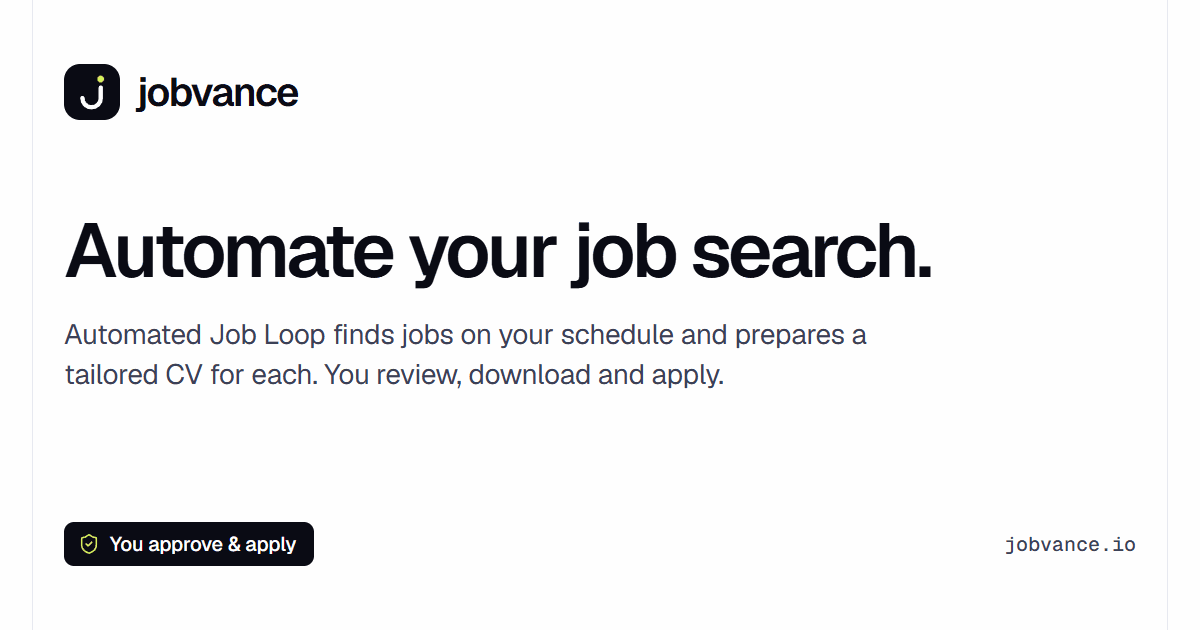
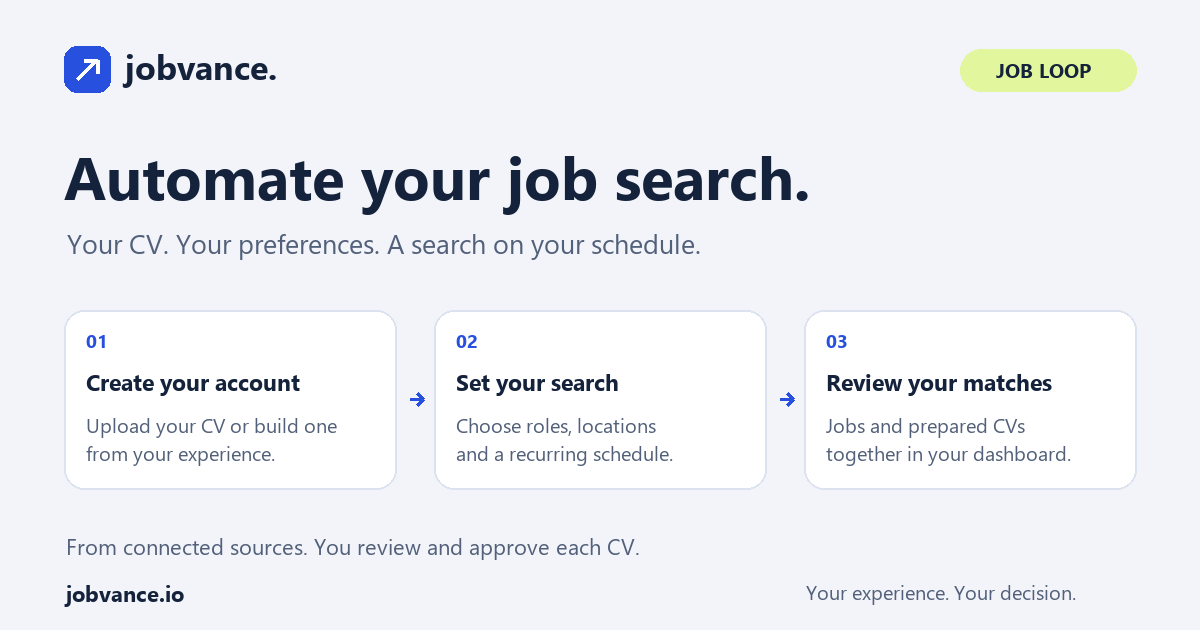
Restore approved identity and lead homepage with job-search outcomes

diff --git a/src/pages/HomePage.tsx b/src/pages/HomePage.tsx
@@ -13,7 +13,7 @@ const delay = (ms: number) => ({ "--d": `${ms}ms` }) as CSSProperties;
 const fromPrice = subscriptionPlans[0].priceUsd;
 
 // Facts the site already states (FAQ, pricing, Automated Job Loop page). No counts, ratings or outcomes.
-const proof = ["You review before you apply", "Free CV Check", "Weekly, 3×/week or daily", "PDF, DOCX or TXT downloads", "Pause your schedule anytime"];
+const proof = ["Jobs and prepared CVs, together", "Up to 3 CV variants", "Weekly, 3×/week or daily", "PDF, DOCX or TXT downloads", "Free CV Check"];
 
 // Every line restates something the site already says; only the short lead-in labels are new.
 const goodToKnow: [string, React.ReactNode][] = [
@@ -43,8 +43,8 @@ export default function HomePage() {
     <section className="jv-hero" aria-labelledby="home-title">
       <div className="jv-shell jv-hero-grid">
         <div className="jv-hero-copy">
-          <h1 id="home-title" className="jv-hero-title jv-enter-h1">Automate your job search.</h1>
-          <p className="jv-hero-lead jv-enter" style={delay(60)}>Automated Job Loop finds jobs on your schedule and prepares a tailored CV for each. You review, download and apply.</p>
+          <h1 id="home-title" className="jv-hero-title jv-enter-h1">Jobvance automates your job search end to end.</h1>
+          <p className="jv-hero-lead jv-enter" style={delay(60)}>Add or build your CV, choose roles and locations, and set your schedule. Jobvance searches connected sources and prepares role-specific CVs in your dashboard. You review, download and apply.</p>
           <div className="jv-hero-actions jv-enter" style={delay(140)}>
             <StartLink size="lg" className="jv-hero-cta" />
             <TextLink to="/check">Try the free CV Check</TextLink>
@@ -89,38 +89,39 @@ export default function HomePage() {
       </div>
     </section>
 
-    {/* 4. You stay in control: each row stages one distinct product fragment on a panel. */}
+    {/* 4. Useful outcomes: each row stages one illustrative product fragment. */}
     <section className="jv-control" aria-labelledby="home-control-title">
       <div className="jv-shell">
         <div className="jv-section-head" data-reveal>
-          <h2 id="home-control-title">You stay in control.</h2>
-          <p>Jobvance prepares. You decide what is used, and you send every application yourself.</p>
+          <h2 id="home-control-title">Stop starting your job search from scratch.</h2>
+          <p>Save your experience once. Return to opportunities, prepared CVs and a clear next step.</p>
         </div>
         <div className="jv-control-rows">
           <article className="jv-control-row" data-reveal>
-            <div className="jv-control-copy"><h3>Jobvance never applies for you</h3><p>Each prepared CV waits for your approval. You download it and apply on the employer’s site.</p></div>
+            <div className="jv-control-copy"><h3>Review jobs and prepared CVs together.</h3><p>Your dashboard keeps each opportunity with its prepared documents. Review the CV, download it and open the employer’s vacancy from one place.</p></div>
             <div className="jv-frag" aria-hidden="true">
               <div className="jv-frag-card">
+                <span className="jv-frag-label">Example application</span>
                 <div className="jv-frag-head"><span className="jv-frag-strong">Product Analyst</span><span className="jv-frag-muted">Northwind Labs</span></div>
                 <div className="jv-frag-foot">
                   <span className="jv-frag-filename"><FileText aria-hidden="true" />CV_Product_Analyst.pdf</span>
-                  <span className="jv-frag-state"><span className="jv-switch is-on"><span /></span>Approved</span>
+                  <span className="jv-frag-state">Ready for review</span>
                 </div>
               </div>
             </div>
           </article>
           <article className="jv-control-row" data-reveal>
-            <div className="jv-control-copy"><h3>Only what you have listed</h3><p>It never adds employers, numbers, tools or qualifications you haven’t listed. It rewords and reorders your own lines.</p></div>
+            <div className="jv-control-copy"><h3>One CV setup. More than one direction.</h3><p>Keep up to three CV variants for different kinds of roles. Choose the one to use for your next run, without re-entering the same experience.</p></div>
             <div className="jv-frag" aria-hidden="true">
               <div className="jv-frag-card jv-frag-cv">
-                <span className="jv-frag-label">Example CV line</span>
-                <p>Ran the quarterly customer survey and shared the results with the team.</p>
-                <span className="jv-frag-skip"><s>Tableau</s><span>Not on your CV · not added</span></span>
+                <span className="jv-frag-label">Example CV variants</span>
+                <p>Product analyst</p>
+                <span className="jv-frag-skip"><FileText aria-hidden="true" /><span>Data analyst · Business analyst</span></span>
               </div>
             </div>
           </article>
           <article className="jv-control-row" data-reveal>
-            <div className="jv-control-copy"><h3>Pause or cancel your schedule anytime</h3><p>Pause or cancel your schedule whenever you need to. Your account shows the next scheduled run.</p></div>
+            <div className="jv-control-copy"><h3>A search schedule that fits your week.</h3><p>Choose weekly, three chosen weekdays or daily. See your next run and pause your search when your plans change.</p></div>
             <div className="jv-frag" aria-hidden="true">
               <div className="jv-frag-card">
                 <div className="jv-frag-head"><span className="jv-frag-strong">Schedule</span><span className="jv-frag-muted">3×/week</span></div>

diff --git a/src/styles/marketing.css b/src/styles/marketing.css
@@ -93,17 +93,16 @@
 .jv-dark .jv-btn--primary:active { background: #C6E64A; }
 .jv-dark .jv-btn:focus-visible { outline-color: var(--jv-signal); }
 
-/* ---------- Brand mark ("signal j") ---------- */
-.jv-brand { display: inline-flex; align-items: center; gap: 10px; min-height: 44px; flex-shrink: 0; color: var(--jv-ink); font-weight: var(--fw-strong); font-size: 22px; letter-spacing: -.04em; line-height: 1; text-decoration: none; border-radius: 10px; }
-.jv-brand-mark { display: grid; place-items: center; width: 32px; height: 32px; border-radius: 9px; background: #0A0B14; color: #fff; box-shadow: inset 0 0 0 1px rgb(255 255 255 / .08); }
+/* The approved document-J and Manrope wordmark stay independent of the page palette. */
+@font-face { font-family: "Jobvance Brand"; src: url("/fonts/Manrope-Bold.woff2") format("woff2"); font-weight: 700; font-style: normal; font-display: swap; }
+.jv-brand { display: inline-flex; align-items: center; gap: 10px; min-height: 44px; flex-shrink: 0; color: #172b24; font-family: "Jobvance Brand", sans-serif; font-weight: 700; font-size: 22px; letter-spacing: -.04em; line-height: 1; text-decoration: none; border-radius: 10px; }
+.jv-brand-name { white-space: nowrap; }
+.jv-brand-period { color: #215c43; }
+.jv-brand-mark { display: grid; place-items: center; width: 32px; height: 32px; border-radius: 9px; background: #215c43; color: #fff; box-shadow: inset 0 0 0 1px rgb(255 255 255 / .08); }
 .jv-brand-mark svg { width: 24px; height: 24px; }
-.jv-brand-signal { fill: #D4F25A; }
-.jv-wordmark { display: block; flex: none; width: auto; height: 22px; overflow: visible; }
 /* Windows High Contrast drops the tile fill; keep the tile's edge so the mark stays recognisable. */
 @media (forced-colors: active) { .jv-brand-mark { border: 1px solid CanvasText; } }
-.jv-dark .jv-brand-mark { background: #fff; color: #0A0B14; }
-.jv-dark .jv-brand-signal { fill: #3B47F0; }
-@media (max-width: 760px) { .jv-brand { font-size: 20px; } .jv-wordmark { height: 20px; } }
+@media (max-width: 760px) { .jv-brand { font-size: 20px; } }
 
 /* ---------- Header ---------- */
 .jv-skip { position: absolute; left: 16px; top: -80px; z-index: 60; padding: 12px 18px; border-radius: 10px; background: var(--jv-ink); color: #fff; font-weight: 500; pointer-events: auto; }
@@ -150,8 +149,8 @@
 .jv-menu-scrim[data-state="closing"] { pointer-events: none; animation: jv-scrim-out 160ms var(--ease-inout) both; }
 @keyframes jv-menu-out { from { clip-path: inset(0 0 0 0); } to { clip-path: inset(0 0 100% 0); } }
 @keyframes jv-scrim-out { to { opacity: 0; } }
-/* Very narrow screens with large text spacing: the wordmark gives way before the menu controls do. */
-@media (max-width: 359px) { .jv-header-inner > .jv-brand { flex-shrink: 1; min-width: 0; overflow: hidden; } .jv-header-inner > .jv-brand .jv-wordmark { flex: 0 1 auto; min-width: 0; } .jv-header-inner > .jv-brand .jv-brand-mark { flex: none; } }
+/* The full wordmark and navigation fit narrow phones; the main page keeps its primary start action. */
+@media (max-width: 359px) { .jv-header-inner > .jv-header-start { display: none; } .jv-header-inner > .jv-header-start ~ .jv-menu-toggle { margin-left: auto; } }
 
 @media (min-width: 960px) {
   /* Floating glass bar: the page passes visibly above and under it while scrolling. */
@@ -192,10 +191,6 @@
 .jv-footer-bottom nav a { display: inline-flex; align-items: center; min-height: 44px; color: var(--jv-ink-2); text-decoration: none; }
 @media (hover: hover) { .jv-footer-bottom nav a:hover { color: var(--jv-ink); text-decoration: underline; text-underline-offset: 3px; } }
 .jv-footer-compact .jv-footer-top { display: none; }
-/* Closing mark: the logotype, oversized and cropped by the page bottom (decorative). */
-.jv-footer-mark { width: var(--shell); aspect-ratio: 97 / 17; margin: 8px auto 0; overflow: hidden; color: #E9EBF2; user-select: none; pointer-events: none; }
-/* Shifted left by the j hook's overhang, so the stem sits on the content edge. */
-.jv-footer-mark-svg { display: block; width: 103.3%; height: auto; max-height: none; margin-left: -3.3%; }
 .jv-footer-compact .jv-footer-inner { padding-top: 20px; }
 .jv-footer-compact .jv-footer-bottom { margin-top: 0; border-top: 0; padding-top: 0; }
 /* Phones: two columns in source order (Product and Resources, then Company under Product). The footer ends on the bottom bar. */
@@ -207,7 +202,6 @@
 @media (min-width: 1024px) {
   /* Same left edge as the page content (shell edge plus the band inset). */
   .jv-footer-inner { padding: 72px var(--band-pad-x) 40px; }
-  .jv-footer-mark { width: calc(var(--shell) - 2 * var(--band-pad-x)); }
   .jv-footer-top { grid-template-columns: repeat(12, minmax(0, 1fr)); gap: 24px; }
   .jv-footer-brand { grid-column: span 4; }
   .jv-footer-links { grid-column: 7 / span 6; gap: 24px; }

diff --git a/index.html b/index.html
@@ -1,3 +1,3 @@
 <!doctype html>
 <html lang="en"><head><meta charset="UTF-8"/><meta name="google-site-verification" content="EP_EoWAzpTyrF431kaQnHGo4n0iUDCDCVJ12hXhpsMg"/><meta name="viewport" content="width=device-width, initial-scale=1.0"/><link rel="preload" href="/fonts/Geist-latin-wght.woff2" as="font" type="font/woff2" crossorigin/><meta name="theme-color" content="#FFFFFF"/><meta name="referrer" content="strict-origin-when-cross-origin"/><title data-rh="true">Jobvance — automate your job search</title><meta data-rh="true" name="description" content="Create your account, upload or build your CV and choose your job preferences. Set a recurring search from connected sources, then review jobs and prepared CVs in your dashboard."/><meta data-rh="true" property="og:title" content="Jobvance — automate your job search"/><meta data-rh="true" property="og:description" content="Create your account, upload or build your CV and choose your job preferences. Set a recurring search from connected sources, then review jobs and prepared CVs in your dashboard."/><meta data-rh="true" name="twitter:title" content="Jobvance — automate your job search"/><meta data-rh="true" name="twitter:description" content="Create your account, upload or build your CV and choose your job preferences. Set a recurring search from connected sources, then review jobs and prepared CVs in your dashboard."/><link rel="icon" type="image/svg+xml" href="/favicon.svg" />
-    <link rel="alternate icon" href="/favicon.ico"/><link rel="apple-touch-icon" href="/apple-touch-icon.png"/><link rel="manifest" href="/manifest.json"/><meta data-rh="true" property="og:image" content="https://jobvance.io/og-job-loop-account.png?v=2"/><meta property="og:image:width" content="1200"/><meta property="og:image:height" content="630"/><meta data-rh="true" property="og:image:alt" content="Jobvance: Automate your job search. Automated Job Loop finds jobs on your schedule and prepares a tailored CV for each. You review, download and apply."/><meta data-rh="true" name="twitter:card" content="summary_large_image"/><meta data-rh="true" name="twitter:image" content="https://jobvance.io/og-job-loop-account.png?v=2"/><meta data-rh="true" name="twitter:image:alt" content="Jobvance: Automate your job search. Automated Job Loop finds jobs on your schedule and prepares a tailored CV for each. You review, download and apply."/></head><body><div id="root"></div><noscript>Jobvance needs JavaScript for secure accounts and document preparation. Enable JavaScript to continue.</noscript><script type="module" src="/src/main.tsx"></script></body></html>
+    <meta data-rh="true" property="og:image" content="https://jobvance.io/og-job-loop-account.png"/><meta property="og:image:width" content="1200"/><meta property="og:image:height" content="630"/><meta data-rh="true" property="og:image:alt" content="Automated Job Loop: create your account, add your CV, set your search schedule and review jobs and prepared CVs."/><meta data-rh="true" name="twitter:card" content="summary_large_image"/><meta data-rh="true" name="twitter:image" content="https://jobvance.io/og-job-loop-account.png"/><meta data-rh="true" name="twitter:image:alt" content="Automated Job Loop: create your account, add your CV, set your search schedule and review jobs and prepared CVs."/></head><body><div id="root"></div><noscript>Jobvance needs JavaScript for secure accounts and document preparation. Enable JavaScript to continue.</noscript><script type="module" src="/src/main.tsx"></script></body></html>

diff --git a/src/__tests__/social-metadata-navigation.test.tsx b/src/__tests__/social-metadata-navigation.test.tsx
@@ -14,7 +14,7 @@ import { clearTrackingDraftMemory } from '../lib/tracking-draft-memory';
 vi.unmock('react-router-dom');
 vi.unmock('react-helmet-async');
 vi.mock('@/lib/job-loop-api', () => ({ callJobLoop: vi.fn(async () => ({ existingState: 'absent' })), boundLoopAction: (value: unknown) => value }));
-const image='https://jobvance.io/og-job-loop-account.png?v=2';
+const image='https://jobvance.io/og-job-loop-account.png';
 const fallbackTitle='Jobvance — automate your job search';
 const originalHead=document.head.innerHTML;
 function content(key:string) {
@@ -42,7 +42,7 @@ describe('real Helmet ownership during client mount and navigation',()=>{
     expect(content('twitter:title')).toBe(staticPageMeta('/')!.title);
     expect(content('twitter:description')).toBe(staticPageMeta('/')!.description);
     for(const key of ['og:image','twitter:image'])expect(content(key)).toBe(image);
-    for(const key of ['og:image:alt','twitter:image:alt'])expect(content(key)).toContain('Automate your job search');
+    for(const key of ['og:image:alt','twitter:image:alt'])expect(content(key)).toContain('create your account');
     fireEvent.click(screen.getByRole('link',{name:'Test help'}));
     await waitFor(()=>expect(content('og:title')).toBe(staticPageMeta('/help')!.title));
     expect(content('twitter:title')).toBe(staticPageMeta('/help')!.title);
@@ -55,7 +55,7 @@ describe('real Helmet ownership during client mount and navigation',()=>{
     expect(content('twitter:title')).toBe(fallbackTitle);
     for(const key of ['description','og:description','twitter:description'])expect(content(key)).toMatch(/^Create your account,/);
     for(const key of ['og:image','twitter:image'])expect(content(key)).toBe(image);
-    for(const key of ['og:image:alt','twitter:image:alt'])expect(content(key)).toContain('Automate your job search');
+    for(const key of ['og:image:alt','twitter:image:alt'])expect(content(key)).toContain('create your account');
     expect(document.head.querySelectorAll('meta[property="og:image:width"]')).toHaveLength(1);
     expect(document.head.querySelector('meta[property="og:image:width"]')).toHaveAttribute('content','1200');
     expect(document.head.querySelector('meta[property="og:image:height"]')).toHaveAttribute('content','630');
@@ -70,7 +70,7 @@ describe('real Helmet ownership during client mount and navigation',()=>{
     fireEvent.click(screen.getByRole('link',{name:'Test home'}));
     await waitFor(()=>expect(content('og:title')).toBe(staticPageMeta('/')!.title));
     for(const key of ['og:image','twitter:image'])expect(content(key)).toBe(image);
-    for(const key of ['og:image:alt','twitter:image:alt'])expect(content(key)).toContain('Automate your job search');
+    for(const key of ['og:image:alt','twitter:image:alt'])expect(content(key)).toContain('create your account');
     expect(document.head.querySelectorAll('title')).toHaveLength(1);
     expect(document.head.querySelectorAll('link[rel="canonical"]')).toHaveLength(1);
   });

diff --git a/src/components/layout/MvpHeader.tsx b/src/components/layout/MvpHeader.tsx
@@ -5,18 +5,10 @@ import { Menu, X } from "lucide-react";
 import { useAuth } from "@/contexts/AuthContext";
 import { clearLoopWorkingDraft } from '@/lib/loop-draft-memory';
 
-// Drawn monoline logotype: the same round-capped stroke as the "j" in the mark (2.5px at 22px tall), hand-spaced.
-// The tittle stays ink; lime belongs only to the mark's signal dot.
-const WORDMARK_PATH = "M4.45 7.35V19.4a3 3 0 0 1-3 3M4.45 1.7h0M8.65 12a4.8 4.8 0 1 0 9.6 0a4.8 4.8 0 1 0-9.6 0M22.15 1.35v15.3M22.15 12a4.8 4.8 0 1 0 9.6 0a4.8 4.8 0 1 0-9.6 0M35.08 7.35l4.5 9.3 4.5-9.3M47.41 12a4.8 4.8 0 1 0 9.6 0a4.8 4.8 0 1 0-9.6 0M57.01 7.35v9.3M60.91 16.65v-9.3M60.91 11.8a4.3 4.3 0 0 1 8.6 0v4.85M81.72 8.43a4.8 4.8 0 1 0 0 7.14M85.92 12h9.6a4.8 4.8 0 1 0-1.23 3.21";
-export function Wordmark({ className = "jv-wordmark" }: { className?: string }) {
-  return <svg className={className} viewBox="0 0 97 24" fill="none" stroke="currentColor" strokeWidth="2.7" strokeLinecap="round" strokeLinejoin="round" aria-hidden="true" focusable="false"><path d={WORDMARK_PATH} /></svg>;
-}
 export function Brand() {
   return <Link to="/" className="jv-brand" aria-label="Jobvance home">
-    <span className="jv-brand-mark" aria-hidden="true">
-      <svg viewBox="0 0 24 24" fill="none"><path d="M17 9.5v6a5.25 5.25 0 0 1-10.5 0" stroke="currentColor" strokeWidth="2.5" strokeLinecap="round" /><circle cx="17" cy="4.6" r="1.9" className="jv-brand-signal" /></svg>
-    </span>
-    <Wordmark />
+    <span className="jv-brand-mark" aria-hidden="true"><svg viewBox="0 0 24 24" fill="none"><path d="M7 4h7l4 4v9a4 4 0 0 1-4 4H9a4 4 0 0 1-4-4v-3" stroke="currentColor" strokeWidth="2" strokeLinecap="round" strokeLinejoin="round" /><path d="M13 4v5h5M13 12v4a2 2 0 0 1-4 0" stroke="currentColor" strokeWidth="2" strokeLinecap="round" strokeLinejoin="round" /></svg></span>
+    <span className="jv-brand-name">jobvance<span className="jv-brand-period">.</span></span>
   </Link>;
 }
 const links = [["/job-loop","Automated Job Loop"],["/check","Free CV Check"],["/pricing","Pricing"],["/guides","Guides"],["/help","Help"]];

diff --git a/src/components/SEOHead.tsx b/src/components/SEOHead.tsx
@@ -45,7 +45,7 @@ export function SeoHead({
   title,
   description,
   canonicalPath,
-  ogImage = `${SITE_URL}/og-job-loop-account.png?v=2`,
+  ogImage = `${SITE_URL}/og-job-loop-account.png`,
   noindex = false,
   structuredData,
   openGraphType = "website",
@@ -72,13 +72,13 @@ export function SeoHead({
       <meta property="og:url" content={canonical} />
       <meta property="og:locale" content={locale} />
       <meta property="og:image" content={ogImage} />
-      <meta property="og:image:alt" content={ogImage === `${SITE_URL}/og-job-loop-account.png?v=2` ? 'Jobvance: Automate your job search. Automated Job Loop finds jobs on your schedule and prepares a tailored CV for each. You review, download and apply.' : description} />
+      <meta property="og:image:alt" content={ogImage === `${SITE_URL}/og-job-loop-account.png` ? 'Automated Job Loop: create your account, add your CV, set your search schedule and review jobs and prepared CVs.' : description} />
       <meta name="twitter:card" content="summary_large_image" />
       <meta name="twitter:site" content={twitterHandle} />
       <meta name="twitter:title" content={title} />
       <meta name="twitter:description" content={description} />
       <meta name="twitter:image" content={ogImage} />
-      <meta name="twitter:image:alt" content={ogImage === `${SITE_URL}/og-job-loop-account.png?v=2` ? 'Jobvance: Automate your job search. Automated Job Loop finds jobs on your schedule and prepares a tailored CV for each. You review, download and apply.' : description} />
+      <meta name="twitter:image:alt" content={ogImage === `${SITE_URL}/og-job-loop-account.png` ? 'Automated Job Loop: create your account, add your CV, set your search schedule and review jobs and prepared CVs.' : description} />
       <link rel="dns-prefetch" href="https://www.google-analytics.com" />
       <link rel="preload" as="image" href="/images/hero-jobvance.webp" />
       {renderJsonLd(structuredData)}

diff --git a/src/components/SiteShareMetadata.tsx b/src/components/SiteShareMetadata.tsx
@@ -4,8 +4,8 @@ import { publicPage, SITE_ORIGIN } from '@/lib/public-route-manifest';
 
 const fallbackTitle = 'Jobvance — automate your job search';
 const fallbackDescription = 'Create your account, upload or build your CV and choose your job preferences. Set a recurring search from connected sources, then review jobs and prepared CVs in your dashboard.';
-const image = `${SITE_ORIGIN}/og-job-loop-account.png?v=2`;
-const imageAlt = 'Jobvance: Automate your job search. Automated Job Loop finds jobs on your schedule and prepares a tailored CV for each. You review, download and apply.';
+const image = `${SITE_ORIGIN}/og-job-loop-account.png`;
+const imageAlt = 'Automated Job Loop: create your account, add your CV, set your search schedule and review jobs and prepared CVs.';
 
 /** Always mounted so title-only private routes retain the common share image.
  * Page Helmets may override specific fields without leaving static duplicates. */

diff --git a/src/__tests__/audience-and-pricing.test.tsx b/src/__tests__/audience-and-pricing.test.tsx
@@ -95,7 +95,7 @@ describe('Automated Job Loop access and monthly plans', () => {
 describe('Automated Job Loop first homepage', () => {
   it('explains the ordered search journey and offers a separate neutral CV Check entry', () => {
     render(<HelmetProvider><MemoryRouter><ProductPage kind="home" /></MemoryRouter></HelmetProvider>);
-    expect(screen.getByRole('heading', { level: 1 })).toHaveTextContent('Automate your job search.');
+    expect(screen.getByRole('heading', { level: 1 })).toHaveTextContent('Jobvance automates your job search end to end.');
     const stages = within(screen.getByRole('list', { name: 'Your Automated Job Loop journey' })).getAllByRole('listitem');
     expect(stages).toHaveLength(3);
     expect(stages[0]).toHaveTextContent('Add your experience');

diff --git a/src/components/layout/MvpFooter.tsx b/src/components/layout/MvpFooter.tsx
@@ -1,5 +1,5 @@
 import { Link, useLocation } from "react-router-dom";
-import { Brand, Wordmark } from "./MvpHeader";
+import { Brand } from "./MvpHeader";
 
 // The same 8 site links as before, grouped into columns.
 const columns: [string, [string, string][]][] = [
@@ -20,6 +20,5 @@ export default function MvpFooter() {
       </div>
       <div className="jv-footer-bottom"><p>© {new Date().getFullYear()} Jobvance</p><nav aria-label="Legal navigation">{legal.map(([to, label]) => <Link key={to} to={to}>{label}</Link>)}</nav></div>
     </div>
-    {!compact && <div className="jv-footer-mark" aria-hidden="true"><Wordmark className="jv-footer-mark-svg" /></div>}
   </footer>;
 }

diff --git a/scripts/generate-social-preview.py b/scripts/generate-social-preview.py
@@ -1,0 +1,46 @@
+"""Job Loop sharing card from the project's editable drawing source.
+
+No customer data, external images or implied customer history. The versioned URL
+refreshes future social previews; the legacy URL is corrected too.
+"""
+from pathlib import Path
+from PIL import Image, ImageDraw, ImageFont
+
+ROOT=Path(__file__).resolve().parent.parent
+FONT_DIR=Path('C:/Windows/Fonts')
+def font(size,bold=False):
+    return ImageFont.truetype(str(FONT_DIR/('segoeuib.ttf' if bold else 'segoeui.ttf')),size)
+image=Image.new('RGB',(1200,630),'#f2f4fa')
+d=ImageDraw.Draw(image)
+blue='#2850df';ink='#14223b';muted='#526079'
+d.rounded_rectangle((64,46,110,92),radius=13,fill=blue)
+d.line((77,79,96,60),fill='white',width=4)
+d.line((84,60,97,60,97,73),fill='white',width=4)
+d.text((125,43),'jobvance.',font=font(34,True),fill=ink)
+d.rounded_rectangle((960,49,1136,91),radius=21,fill='#e2f69e')
+d.text((996,56),'JOB LOOP',font=font(20,True),fill=ink)
+d.text((64,135),'Automate your job search.',font=font(60,True),fill=ink)
+d.text((67,224),'Your CV. Your preferences. A search on your schedule.',font=font(27),fill=muted)
+panels = [
+    ('01','Create your account',['Upload your CV or build one','from your experience.']),
+    ('02','Set your search',['Choose roles, locations','and a recurring schedule.']),
+    ('03','Review your matches',['Jobs and prepared CVs','together in your dashboard.']),
+]
+for index,(number,title,lines) in enumerate(panels):
+    left=64+index*370
+    d.rounded_rectangle((left,310,left+332,489),radius=20,fill='white',outline='#dce2ef',width=2)
+    d.text((left+22,327),number,font=font(19,True),fill=blue)
+    d.text((left+22,366),title,font=font(23,True),fill=ink)
+    for row,line in enumerate(lines):
+        d.text((left+22,411+row*28),line,font=font(20),fill=muted)
+    if index<2:
+        x=left+346
+        d.line((x,399,x+13,399),fill=blue,width=3)
+        d.line((x+7,393,x+13,399,x+7,405),fill=blue,width=3)
+d.text((66,531),'From connected sources. You review and approve each CV.',font=font(22),fill=muted)
+d.text((66,578),'jobvance.io',font=font(22,True),fill=ink)
+d.text((806,578),'Your experience. Your decision.',font=font(20),fill=muted)
+for filename in ['og-job-loop-account.png','og-jobvance.png']:
+    destination=ROOT/'public'/filename
+    image.save(destination,optimize=True)
+    print(f'{filename}: 1200x630; {destination.stat().st_size} bytes')
